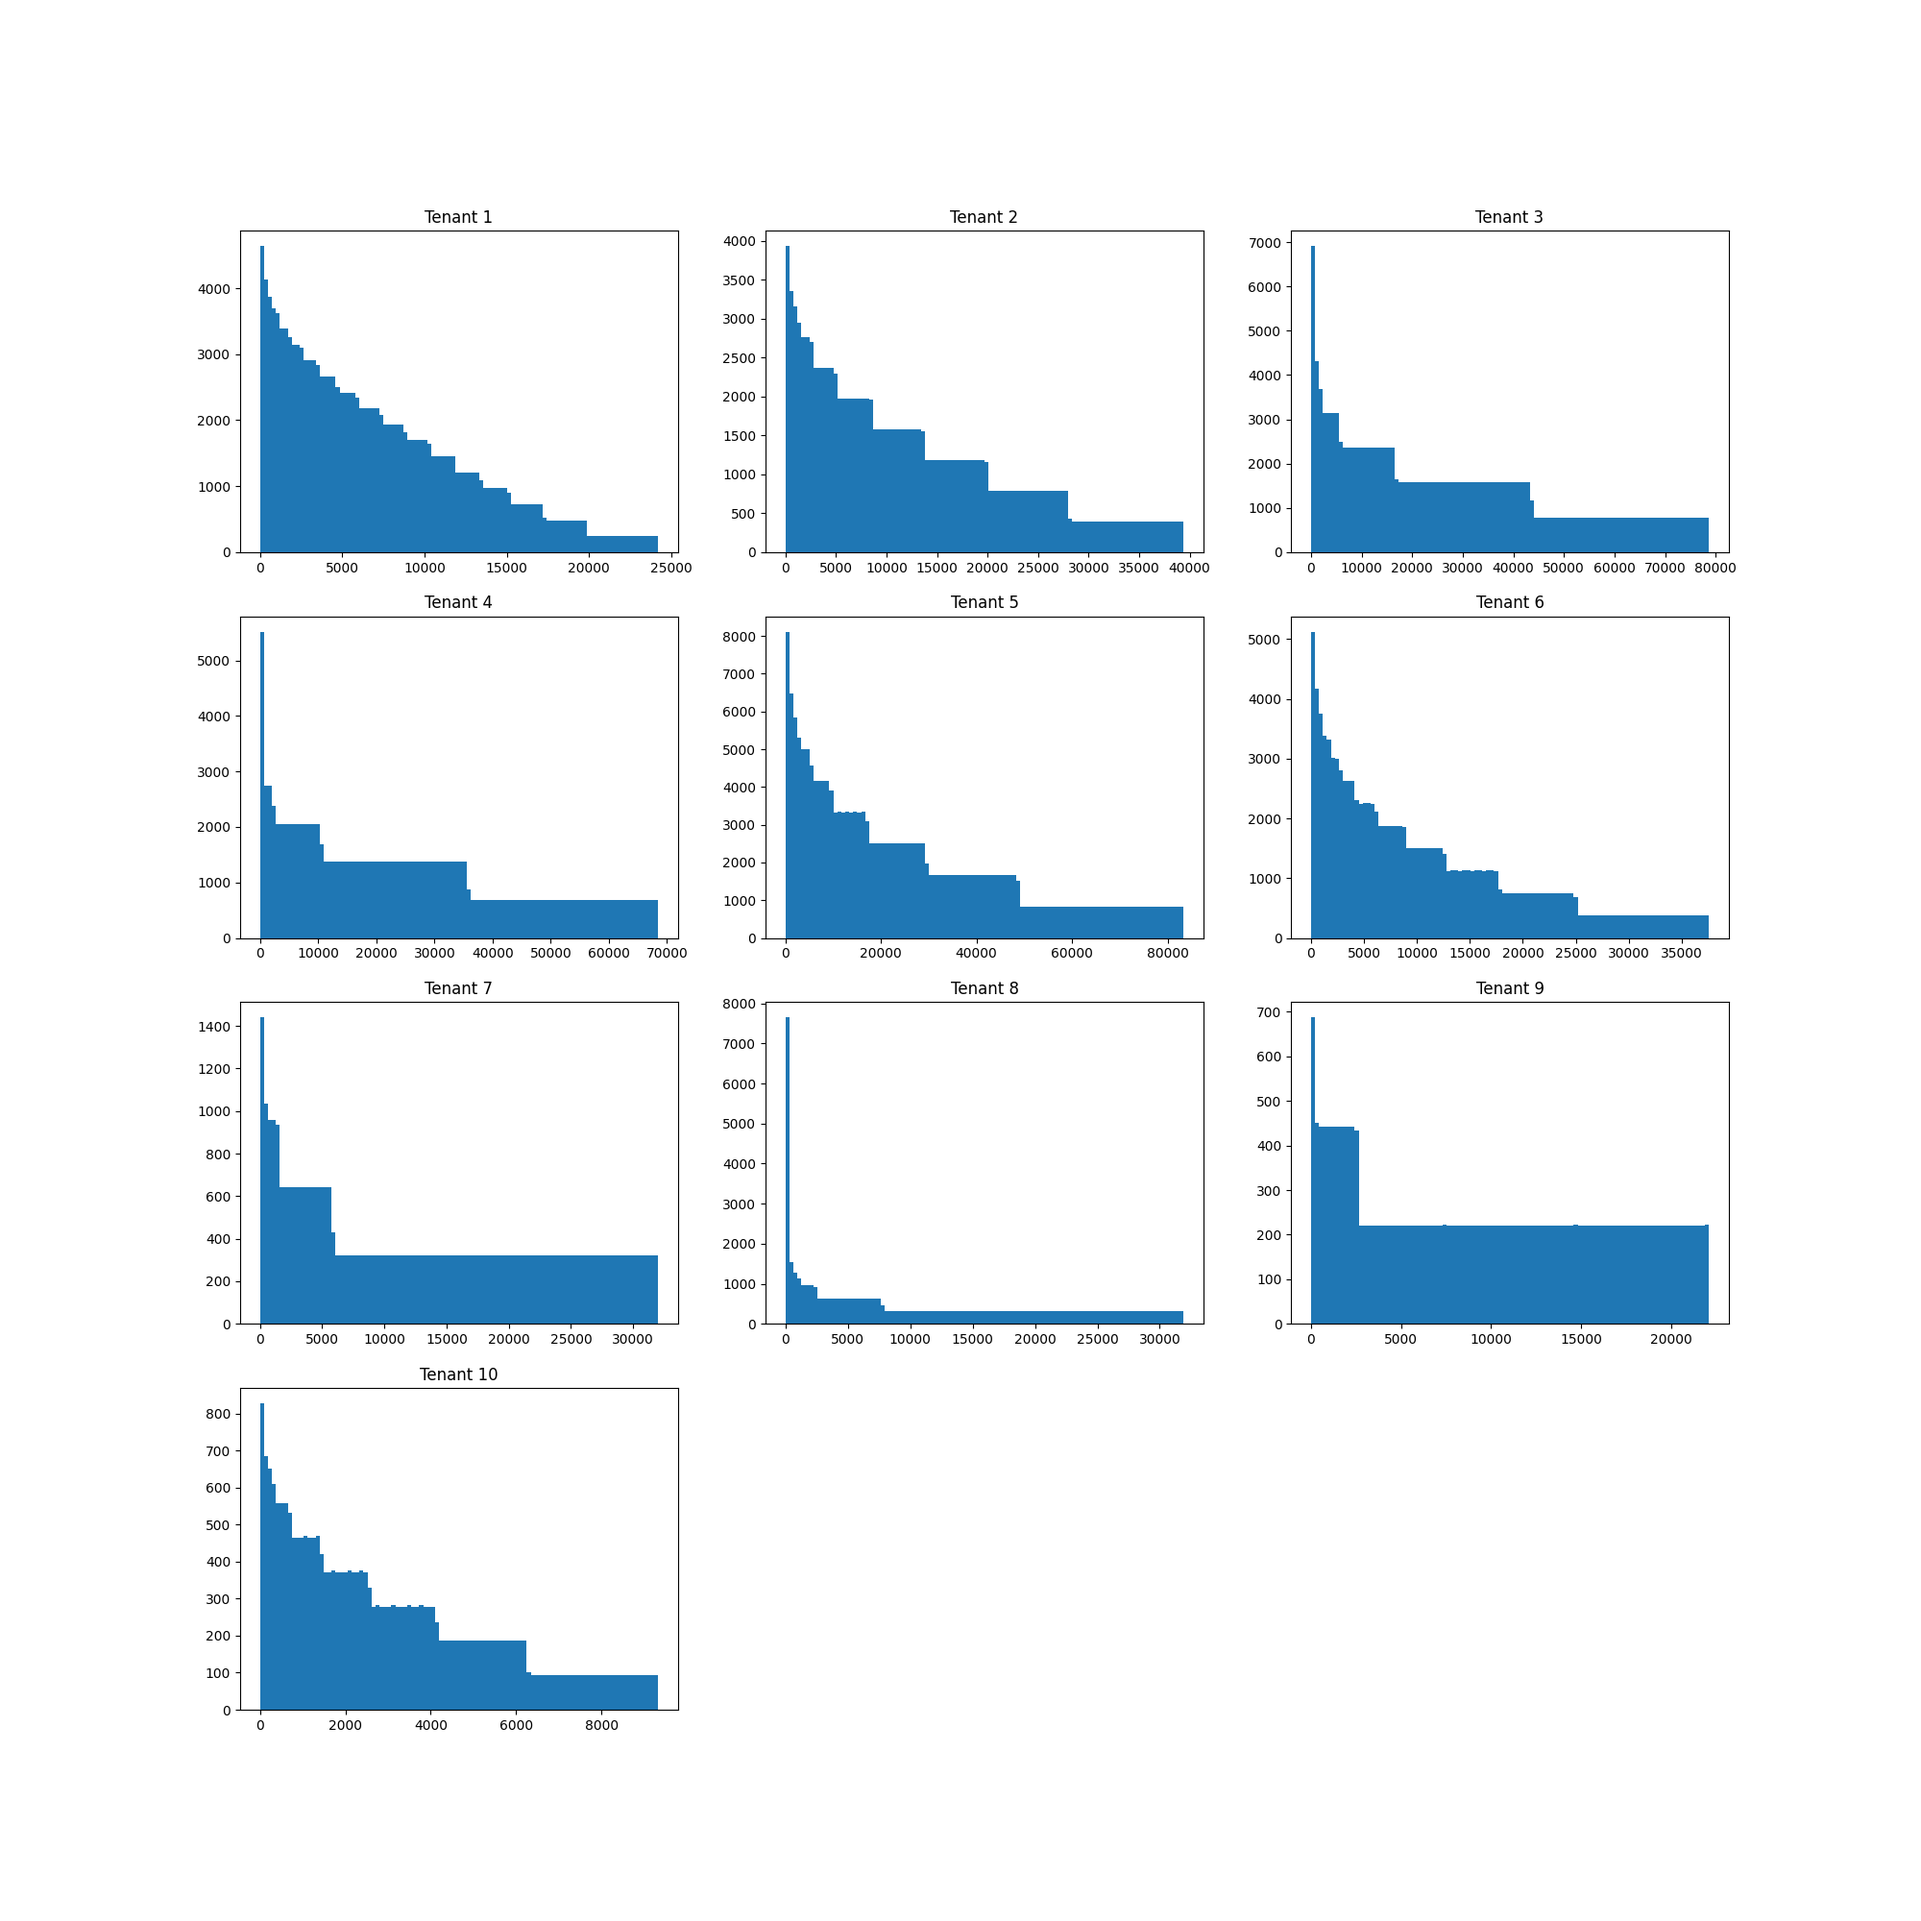
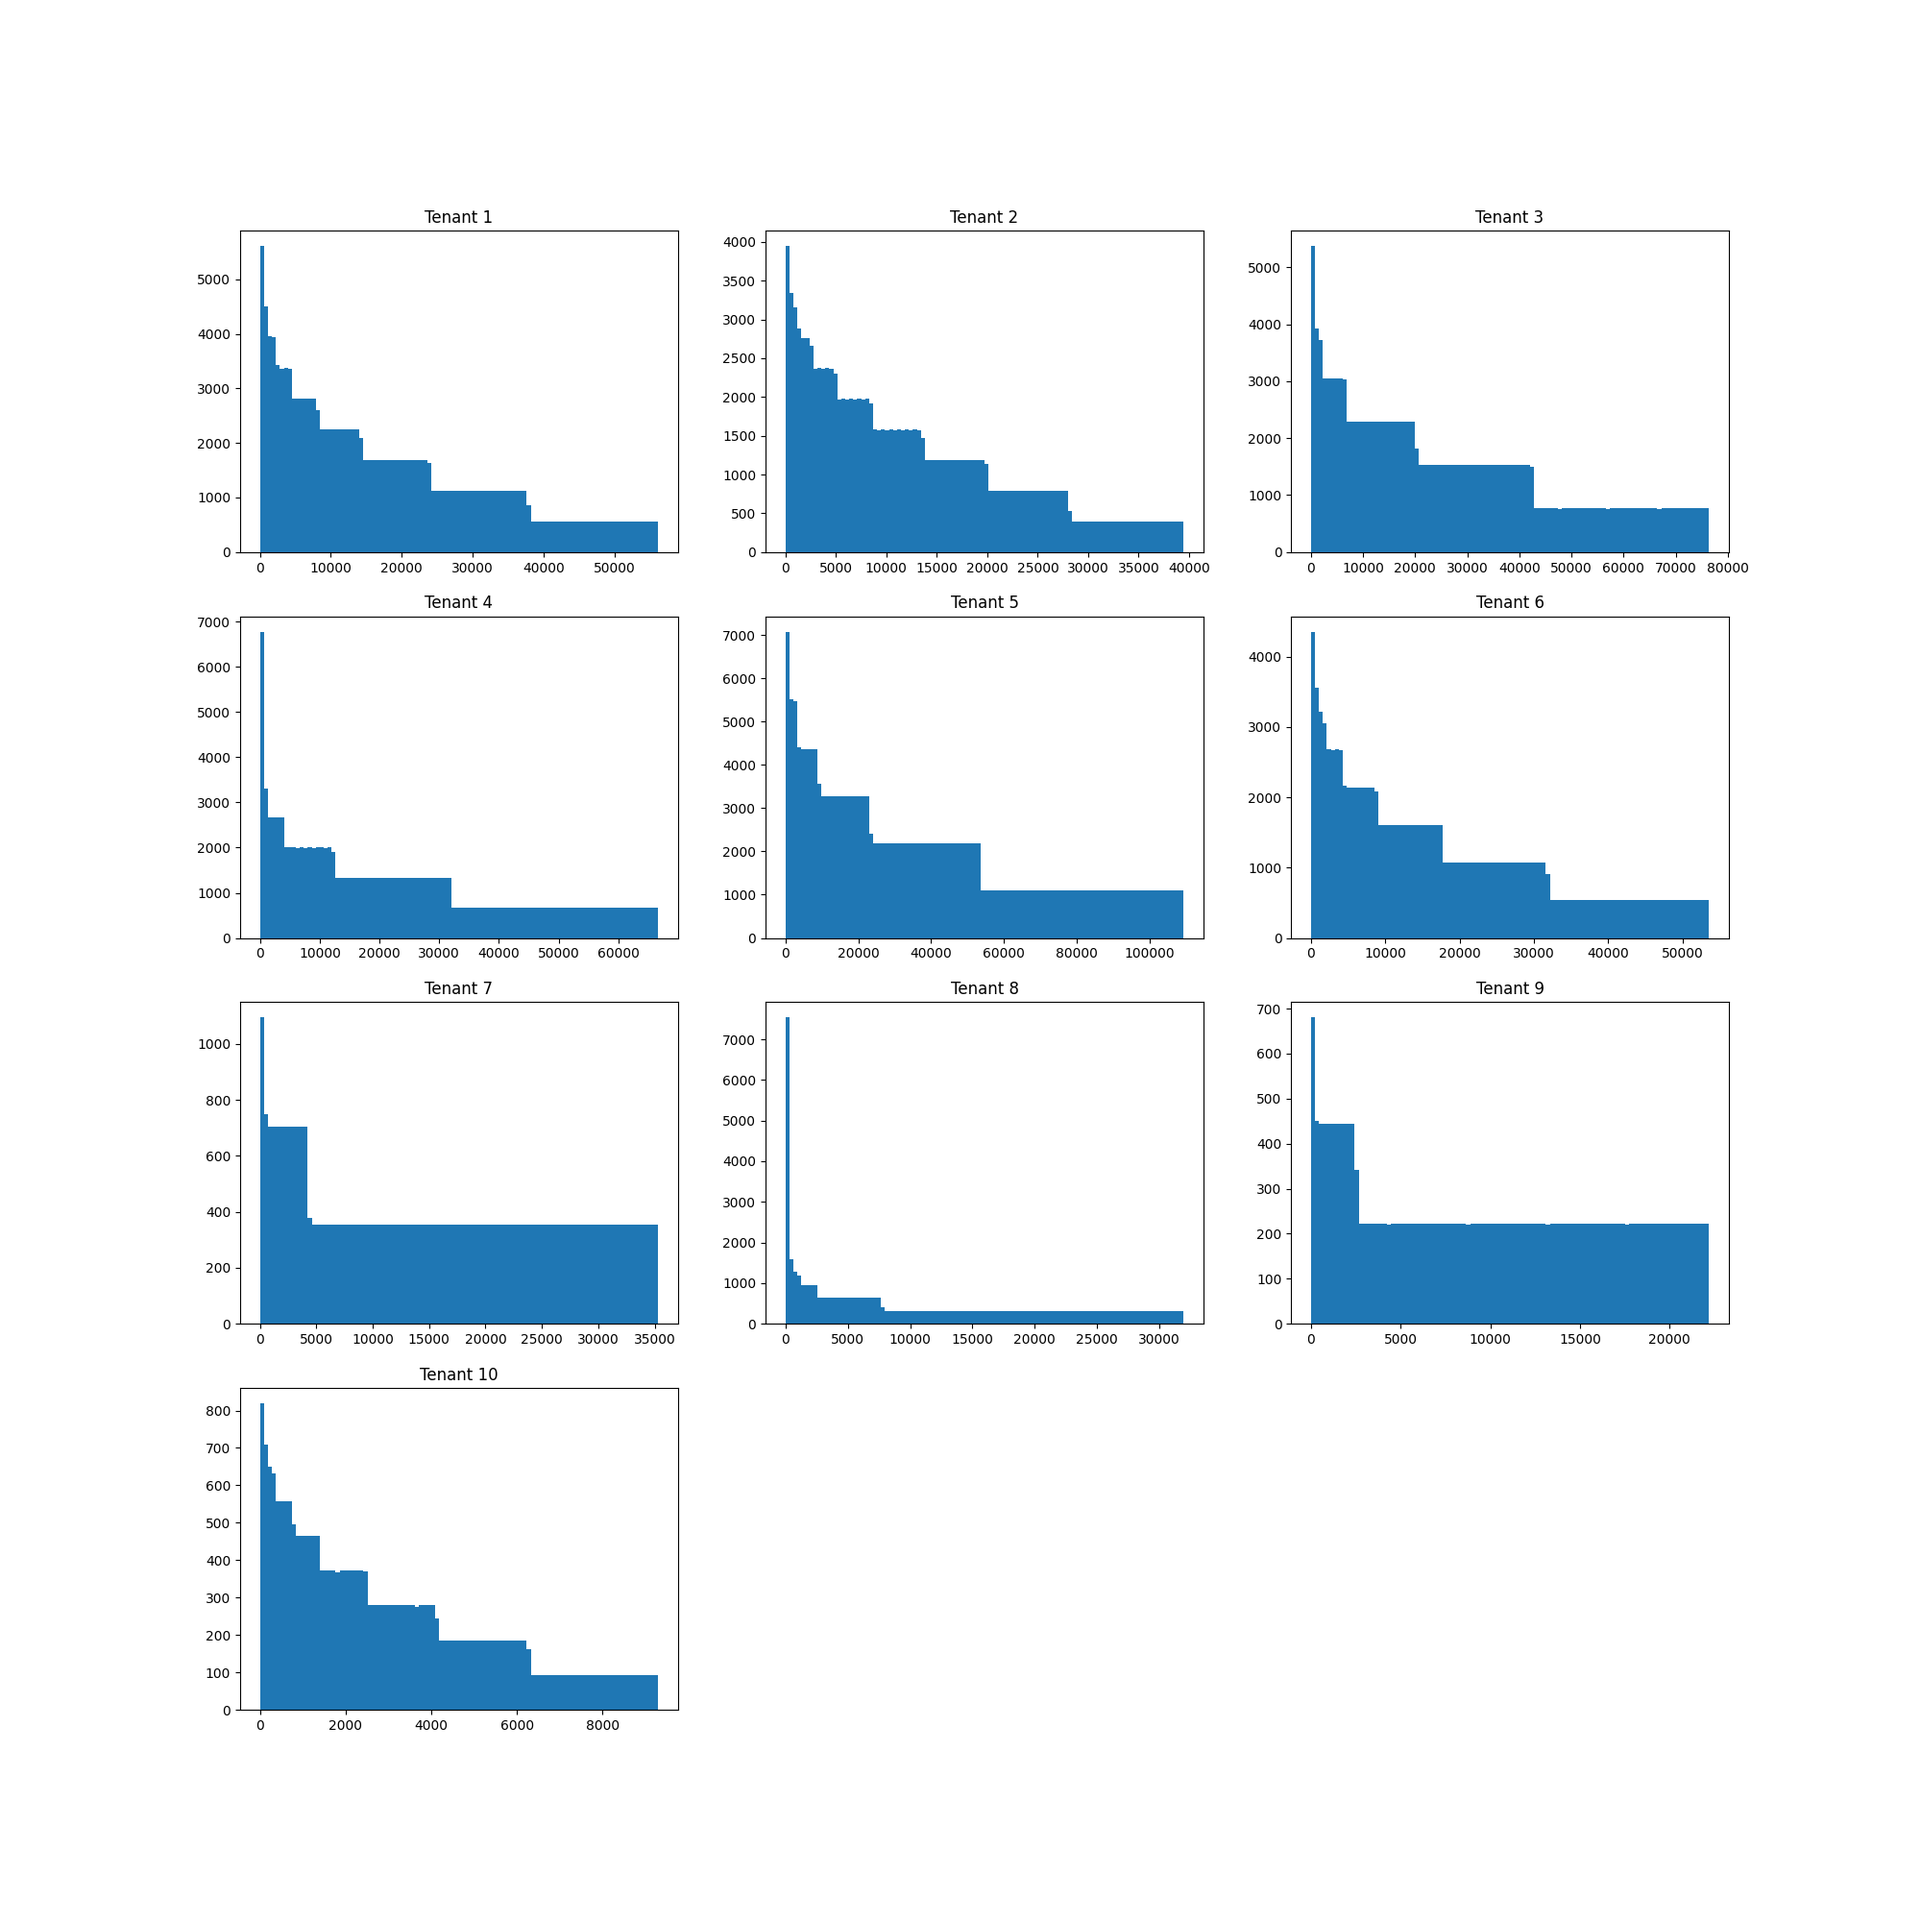
feat/modify-test-case-4

diff --git a/test_cases/test_case_4/description.py b/test_cases/test_case_4/description.py
@@ -9,17 +9,16 @@ tenants = [
         'minimum_buffer_size': 5000,
         'base_buffer_size': 20000,
         'maximum_buffer_size': 50000,
-        'page_accesses_dist': {
+        'page_accesses_dist': [
+          {
             'type': 'normal',
             'variance': 10000,
-            'length': 150000,
-        },
-        'pages_should_be_renumbered': False,
-        'page_accesses_interval_dist': {
-            'type': 'uniform',
-            'length': 150000,
-            'max_value': 1,
-        },
+            'length': 30000,
+            'interval_type': 'uniform',
+            'interval_max_value': 1,
+          },
+        ] * 5,
+        'pages_should_be_renumbered': True,
     },
     {
         'tenant_id': 2,
@@ -28,11 +27,15 @@ tenants = [
         'minimum_buffer_size': 4000,
         'base_buffer_size': 15000,
         'maximum_buffer_size': 40000,
-        'page_accesses_dist': {
+        'page_accesses_dist': [
+          {
             'type': 'normal',
             'variance': 20000,
-            'length': 120000,
-        },
+            'length': 20000,
+            'interval_type': 'uniform',
+            'interval_max_value': 1,
+          },
+        ] * 6,
         'pages_should_be_renumbered': False,
         'page_accesses_interval_dist': {
             'type': 'uniform',
@@ -47,18 +50,17 @@ tenants = [
         'minimum_buffer_size': 8000,
         'base_buffer_size': 25000,
         'maximum_buffer_size': 60000,
-        'page_accesses_dist': {
+        'page_accesses_dist': [
+          {
             'type': 'pareto',
             'parameter': 0.05,
-            'length': 150000,
-        },
+            'length': 50000,
+            'interval_type': 'pareto',
+            'interval_parameter': 0.5,
+            'interval_max_value': 5000,
+          },
+        ] * 3,
         'pages_should_be_renumbered': True,
-        'page_accesses_interval_dist': {
-            'type': 'pareto',
-            'parameter': 0.5,
-            'length': 150000,
-            'max_value': 5000,
-        },
     },
     {
         'tenant_id': 4,
@@ -67,18 +69,17 @@ tenants = [
         'minimum_buffer_size': 5000,
         'base_buffer_size': 20000,
         'maximum_buffer_size': 50000,
-        'page_accesses_dist': {
+        'page_accesses_dist': [
+          {
             'type': 'zipfian',
             'parameter': 1.01,
-            'length': 120000,
-        },
+            'length': 40000,
+            'interval_type': 'zipfian',
+            'interval_parameter': 2,
+            'interval_max_value': 100000,
+          },
+        ] * 3,
         'pages_should_be_renumbered': True,
-        'page_accesses_interval_dist': {
-            'type': 'zipfian',
-            'parameter': 2,
-            'length': 120000,
-            'max_value': 100000,
-        },
     },
     {
         'tenant_id': 5,
@@ -87,18 +88,17 @@ tenants = [
         'minimum_buffer_size': 20000,
         'base_buffer_size': 40000,
         'maximum_buffer_size': 100000,
-        'page_accesses_dist': {
+        'page_accesses_dist': [
+          {
             'type': 'normal',
             'variance': 5000,
-            'length': 200000,
-        },
+            'length': 50000,
+            'interval_type': 'normal',
+            'interval_variance': 10,
+            'interval_max_value': 100000,
+          },
+        ] * 4,
         'pages_should_be_renumbered': True,
-        'page_accesses_interval_dist': {
-            'type': 'normal',
-            'length': 200000,
-            'variance': 10,
-            'max_value': 100000,
-        },
     },
     {
         'tenant_id': 6,
@@ -107,18 +107,17 @@ tenants = [
         'minimum_buffer_size': 4000,
         'base_buffer_size': 10000,
         'maximum_buffer_size': 30000,
-        'page_accesses_dist': {
+        'page_accesses_dist': [
+          {
             'type': 'normal',
             'variance': 5000,
-            'length': 120000,
-        },
+            'length': 30000,
+            'interval_type': 'normal',
+            'interval_variance': 3,
+            'interval_max_value': 80000,
+          },
+        ] * 4,
         'pages_should_be_renumbered': True,
-        'page_accesses_interval_dist': {
-            'type': 'normal',
-            'length': 120000,
-            'variance': 3,
-            'max_value': 80000,
-        },
     },
     {
         'tenant_id': 7,
@@ -127,18 +126,17 @@ tenants = [
         'minimum_buffer_size': 14000,
         'base_buffer_size': 30000,
         'maximum_buffer_size': 80000,
-        'page_accesses_dist': {
+        'page_accesses_dist': [
+          {
             'type': 'normal',
             'variance': 4000,
-            'length': 40000,
-        },
+            'length': 10000,
+            'interval_type': 'zipfian',
+            'interval_parameter': 2,
+            'interval_max_value': 30000,
+          },
+        ] * 4,
         'pages_should_be_renumbered': True,
-        'page_accesses_interval_dist': {
-            'type': 'zipfian',
-            'parameter': 2,
-            'length': 40000,
-            'max_value': 30000,
-        },
     },
     {
         'tenant_id': 8,
@@ -147,17 +145,16 @@ tenants = [
         'minimum_buffer_size': 4000,
         'base_buffer_size': 10000,
         'maximum_buffer_size': 30000,
-        'page_accesses_dist': {
+        'page_accesses_dist': [
+          {
             'type': 'zipfian',
             'parameter': 1.005,
-            'length': 50000,
-        },
+            'length': 25000,
+            'interval_type': 'uniform',
+            'interval_max_value': 1,
+          },
+        ] * 2,
         'pages_should_be_renumbered': False,
-        'page_accesses_interval_dist': {
-            'type': 'uniform',
-            'length': 50000,
-            'max_value': 1,
-        },
     },
     {
         'tenant_id': 9,
@@ -166,16 +163,15 @@ tenants = [
         'minimum_buffer_size': 2000,
         'base_buffer_size': 6000,
         'maximum_buffer_size': 15000,
-        'page_accesses_dist': {
+        'page_accesses_dist': [
+          {
             'type': 'uniform',
             'length': 25000,
-        },
+            'interval_type': 'uniform',
+            'interval_max_value': 1,
+          },
+        ],
         'pages_should_be_renumbered': False,
-        'page_accesses_interval_dist': {
-            'type': 'uniform',
-            'length': 25000,
-            'max_value': 1,
-        },
     },
     {
         'tenant_id': 10,
@@ -184,17 +180,16 @@ tenants = [
         'minimum_buffer_size': 3000,
         'base_buffer_size': 7500,
         'maximum_buffer_size': 20000,
-        'page_accesses_dist': {
+        'page_accesses_dist': [
+          {
             'type': 'normal',
             'variance': 5000,
             'length': 25000,
-        },
+            'interval_type': 'uniform',
+            'interval_max_value': 1,
+          },
+        ],
         'pages_should_be_renumbered': False,
-        'page_accesses_interval_dist': {
-            'type': 'uniform',
-            'length': 25000,
-            'max_value': 1,
-        },
     },
 ]
 
